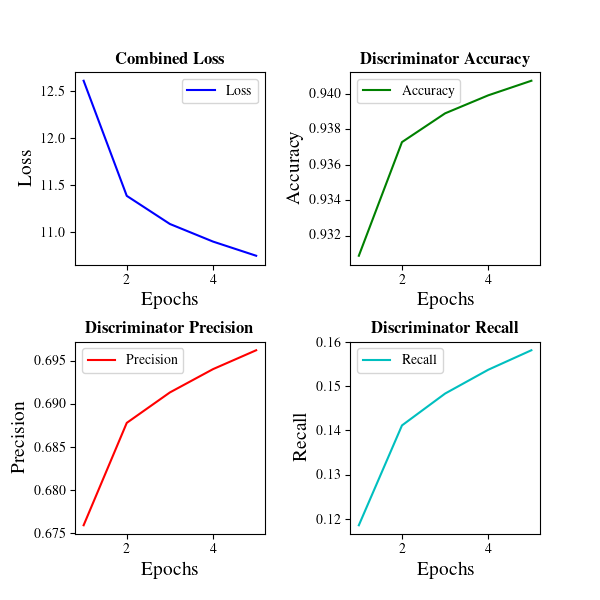
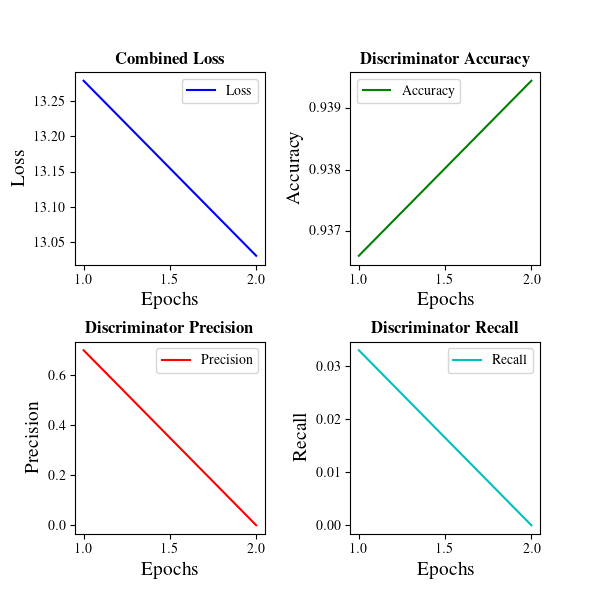
testing weight update

diff --git a/Code/src/build_checkpoints.py b/Code/src/build_checkpoints.py
@@ -75,6 +75,36 @@ def build_pretrained_from_checkpoint(model_size, device, checkpoint_directory, c
     return electra_model, optimizer, scheduler, electra_tokenizer, loss_function, config
 
 
+
+def get_optimizer_and_scheduler(model, model_config, model_settings, num_warmup_steps):
+    """
+    Get an optimizer and scheduler, adjusted for the particular parameters in our model.
+    model_settings are settings relating to the model, config are extra paramters
+    :return:
+    """
+    # todo, we may need to tweak this for classifier vs extractive models.
+    # # ------ LOAD MODEL FROM PRE-TRAINED CHECKPOINT OR FROM FINE-TUNED CHECKPOINT ------
+    layerwise_learning_rates = get_layer_lrs(model.named_parameters(), model_settings["lr"],
+                                             model_settings["layerwise_lr_decay"],
+                                             model_config.num_hidden_layers)
+    no_decay = ["bias", "LayerNorm", "layer_norm"]  # Prepare optimizer and schedule (linear warm up and decay)
+
+    layerwise_params = []  # todo check if lr should be dependent on non-zero wd
+    for n, p in model.named_parameters():
+        wd = model_settings["decay"] if not any(nd in n for nd in no_decay) else 0
+        lr = layerwise_learning_rates[n]
+        layerwise_params.append({"params": [p], "weight_decay": wd, "lr": lr})
+
+    # Create the optimizer and scheduler
+    optimizer = AdamW(layerwise_params, eps=model_settings["epsilon"], correct_bias=False)
+    # optimizer = AdamW(discriminator.parameters(), eps=model_settings["epsilon"], correct_bias=False)
+    scheduler = get_linear_schedule_with_warmup(optimizer,
+                                                num_warmup_steps=(num_warmup_steps) * model_settings[
+                                                    "warmup_fraction"],
+                                                num_training_steps=num_warmup_steps)  # todo check whether num_training_steps should be -1
+    return optimizer, scheduler
+
+
 def build_finetuned_from_checkpoint(model_size, device, pretrained_checkpoint_dir, finetuned_checkpoint_dir, checkpoint_name, question_type, config={}):
     # -- Create the checkpoint directories if they don't exist --
     pretrained_checkpoint_name, finetuned_checkpoint_name = checkpoint_name
@@ -86,22 +116,8 @@ def build_finetuned_from_checkpoint(model_size, device, pretrained_checkpoint_di
     generator, discriminator, electra_tokenizer, \
     discriminator_config = build_electra_model(model_size, get_config=True)  # get basic model building blocks
 
-    # # ------ LOAD MODEL FROM PRE-TRAINED CHECKPOINT OR FROM FINE-TUNED CHECKPOINT ------
-    layerwise_learning_rates = get_layer_lrs(discriminator.named_parameters(), model_settings["lr"], model_settings["layerwise_lr_decay"], discriminator_config.num_hidden_layers)
-    no_decay = ["bias", "LayerNorm", "layer_norm"]  # Prepare optimizer and schedule (linear warm up and decay)
 
-    layerwise_params = []  # todo check if lr should be dependent on non-zero wd
-    for n, p in discriminator.named_parameters():
-        wd = model_settings["decay"] if not any(nd in n for nd in no_decay) else 0
-        lr = layerwise_learning_rates[n]
-        layerwise_params.append({"params": [p], "weight_decay": wd, "lr": lr})
-
-    # Create the optimizer and scheduler
-    optimizer = AdamW(layerwise_params, eps=model_settings["epsilon"], correct_bias=False)
-    # optimizer = AdamW(discriminator.parameters(), eps=model_settings["epsilon"], correct_bias=False)
-    scheduler = get_linear_schedule_with_warmup(optimizer,
-                                                num_warmup_steps=(config["num_warmup_steps"]) * model_settings["warmup_fraction"],
-                                                num_training_steps=config["num_warmup_steps"])  # todo check whether num_training_steps should be -1
+    optimizer, scheduler = get_optimizer_and_scheduler(discriminator, discriminator_config, model_settings, config["num_warmup_steps"])
 
     #   -------- DETERMINE WHETHER TRAINING FROM A FINE-TUNED CHECKPOINT OR FROM PRETRAINED CHECKPOINT --------
     valid_finetune_checkpoint, path_to_checkpoint, building_from_pretrained = False, None, True
@@ -156,6 +172,8 @@ def build_finetuned_from_checkpoint(model_size, device, pretrained_checkpoint_di
             build_pretrained_from_checkpoint(model_size, device, pretrained_checkpoint_dir, pretrained_checkpoint_name)
         config["pretrained_settings"] = {"epochs": p_model_config["current_epoch"], "steps": p_model_config["steps_trained"]}
         discriminator = pretrained_model.discriminator
+        optimizer, scheduler = get_optimizer_and_scheduler(discriminator, discriminator_config, model_settings,
+                                                           config["num_warmup_steps"])
 
         # generator, discriminator, electra_tokenizer = build_electra_model(model_size) # todo remove - testing regular pretrained checkpoint to see if error in pretraining
 
@@ -166,4 +184,7 @@ def build_finetuned_from_checkpoint(model_size, device, pretrained_checkpoint_di
             # electra_for_qa = ElectraForSequenceClassification.from_pretrained(pretrained_model_name_or_path=None, state_dict=discriminator.state_dict(), config=discriminator_config)
         else:
             raise Exception("Question type list must be contain factoid, list or yesno.")
+
+
+
     return electra_for_qa, optimizer, scheduler, electra_tokenizer, config

diff --git a/Code/src/data_processing.py b/Code/src/data_processing.py
@@ -37,6 +37,7 @@ class BinaryFeature:
         self._token_type_ids = token_type_ids
         self._answer_text = answer_text.lower()
 
+        # since using pos_weights, weights should not be floats anymore.
         if self._answer_text == "yes":
             self._label = 1.0
             self._weight = 0.2
@@ -402,7 +403,7 @@ class BatchFeatures:
             self.answer_end = torch.tensor(transposed_data[6], device=device)
         else:
             self.labels = torch.tensor(transposed_data[5], device=device, dtype=torch.float)
-            self.weights = torch.tensor(transposed_data[6], device=device)
+            self.weights = torch.tensor(transposed_data[6], device=device, dtype=torch.float)
 
 
 

diff --git a/Code/src/visualise_pretraining.py b/Code/src/visualise_pretraining.py
@@ -190,7 +190,7 @@ def create_separate_plots(statistics, checkpoint_name):
 
 
 if __name__ == "__main__":
-    chckpt_name = "small_5_17530"  # e.g. small_10_50
+    chckpt_name = "base_2_6821"  # e.g. small_10_50
 
     if len(chckpt_name) == 0:
         raise ValueError("Checkpoint name must be the name of a valid checkpoint e.g. small_10_50")
